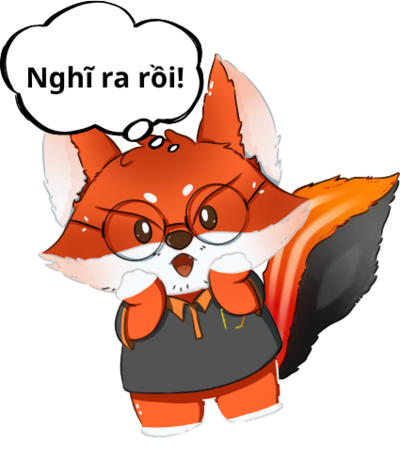
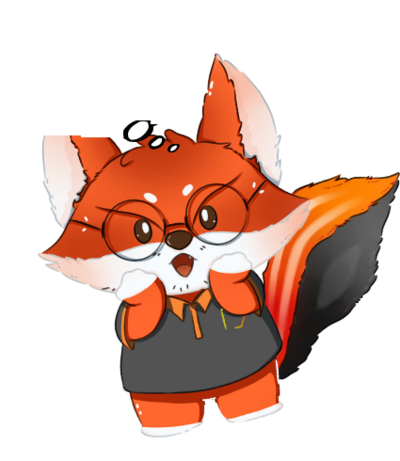
feat(npc): show the lines inside the fox's own thought cloud
fox-idea.png has its drawn cloud removed (the small dots stay); an HTML
cloud in the same style takes its place and holds the text.

diff --git a/css/npc.css b/css/npc.css
@@ -1,5 +1,5 @@
 /* ==========================================================================
-   NPC mascot (js/npc.js): fox in the bottom-right corner with a speech bubble.
+   NPC mascot (js/npc.js): fox in the bottom-right corner with a thought cloud.
    Sits above the desktop icons but below windows (z-index 100+).
    ========================================================================== */
 
@@ -8,11 +8,7 @@
   right: 16px;
   bottom: calc(var(--taskbar-height) + 8px);
   z-index: 50;
-  display: flex;
-  flex-direction: row; /* bubble on the left, so it does not cover the thought cloud in the art */
-  align-items: flex-end;
-  gap: 10px;
-  pointer-events: none; /* only the bubble and the fox take clicks */
+  pointer-events: none; /* only the cloud and the fox take clicks */
 }
 
 /* The mascot replaces the bottom-right watermark while it is shown */
@@ -20,7 +16,12 @@
   display: none;
 }
 
+.npc-figure {
+  position: relative;
+}
+
 .npc-body {
+  display: block;
   width: 170px;
   padding: 0;
   border: none;
@@ -43,54 +44,42 @@
   animation: npcHop 0.45s ease-out, npcBob 3.2s ease-in-out 0.45s infinite;
 }
 
-/* Speech bubble (XP balloon tooltip) */
+/* Thought cloud, drawn like the one in the art (white, thick dark outline).
+   Its bottom-right corner sits where the art's cloud was: in fox-idea.png the
+   cloud was removed and only the small dots above the head remain. It grows
+   up and to the left with the text. */
 .npc-bubble {
-  position: relative;
-  max-width: 260px;
-  padding: 10px 12px 10px;
-  background: #ffffe1;
-  color: #000;
-  border: 1px solid #000;
-  border-radius: 8px;
-  margin-bottom: 70px; /* level with the fox's head */
-  box-shadow: 2px 3px 8px rgba(0, 0, 0, 0.35);
+  position: absolute;
+  right: 68%;
+  bottom: 69%;
+  box-sizing: border-box; /* max-width includes padding and border */
+  width: max-content;
+  min-width: 140px;
+  max-width: 280px;
+  padding: 14px 24px 14px 20px;
+  background: #fff;
+  color: #111;
+  border: 3px solid #1a1a1a;
+  border-radius: 38px;
+  box-shadow: 0 0 0 1px rgba(26, 26, 26, 0.35), 3px 4px 10px rgba(0, 0, 0, 0.3);
   font-family: var(--font-system);
-  font-size: 12px;
+  font-size: 13px;
+  font-weight: 600;
   line-height: 1.45;
   pointer-events: auto;
-  animation: npcPop 0.18s ease-out;
-}
-
-/* Tail of the balloon, pointing right at the fox */
-.npc-bubble::after {
-  content: "";
-  position: absolute;
-  right: -11px;
-  bottom: 18px;
-  border: 10px solid transparent;
-  border-right: 0;
-  border-left-color: #000;
-}
-
-.npc-bubble::before {
-  content: "";
-  position: absolute;
-  right: -9px;
-  bottom: 19px;
-  z-index: 1;
-  border: 9px solid transparent;
-  border-right: 0;
-  border-left-color: #ffffe1;
+  transform-origin: 85% 100%;
+  animation: npcPop 0.2s ease-out;
 }
 
 .npc-text {
-  margin: 0 14px 0 0;
+  margin: 0;
+  cursor: default;
 }
 
 .npc-bubble-close {
   position: absolute;
-  top: 2px;
-  right: 4px;
+  top: 6px;
+  right: 12px;
   width: 20px;
   height: 20px;
   padding: 0;
@@ -98,7 +87,7 @@
   background: none;
   font-size: 16px;
   line-height: 1;
-  color: #555;
+  color: #666;
   cursor: pointer;
 }
 
@@ -121,6 +110,7 @@
   background: linear-gradient(180deg, #fff 0%, #ece9d8 100%);
   font-family: inherit;
   font-size: 11px;
+  font-weight: normal;
   cursor: pointer;
 }
 
@@ -147,6 +137,12 @@
   box-shadow: -2px 2px 6px rgba(0, 0, 0, 0.35);
 }
 
+/* Desktop icon the fox is talking about */
+.desktop-icon.npc-highlight {
+  border-radius: 6px;
+  animation: npcPulse 1s ease-in-out 4;
+}
+
 @keyframes npcBob {
   0%, 100% { transform: translateY(0); }
   50% { transform: translateY(-4px); }
@@ -158,8 +154,13 @@
 }
 
 @keyframes npcPop {
-  from { opacity: 0; transform: translateY(6px) scale(0.96); }
+  from { opacity: 0; transform: scale(0.85); }
   to { opacity: 1; transform: none; }
+}
+
+@keyframes npcPulse {
+  0%, 100% { box-shadow: 0 0 0 0 rgba(255, 140, 40, 0); background-color: transparent; }
+  50% { box-shadow: 0 0 0 3px rgba(255, 140, 40, 0.9), 0 0 16px 4px rgba(255, 140, 40, 0.6); background-color: rgba(255, 140, 40, 0.18); }
 }
 
 @media (prefers-reduced-motion: reduce) {
@@ -168,25 +169,25 @@
   .npc-bubble {
     animation: none;
   }
+
+  .desktop-icon.npc-highlight {
+    animation: none;
+    box-shadow: 0 0 0 3px rgba(255, 140, 40, 0.9);
+  }
 }
 
-/* Phones: smaller fox, bubble fits the screen, readable text and buttons */
+/* Phones: smaller fox; the cloud may use the width left of it */
 @media (max-width: 768px) {
   .npc {
     right: 8px;
   }
 
   .npc-body {
-    width: 120px;
-  }
-
-  .npc {
-    gap: 6px;
+    width: 130px;
   }
 
   .npc-bubble {
-    max-width: calc(100vw - 150px);
-    margin-bottom: 50px;
+    max-width: calc(100vw - 112px); /* fox is 130px wide, cloud ends at ~32% of it */
     font-size: 14px;
   }
 
@@ -203,29 +204,7 @@
   }
 
   .npc-bubble {
-    max-width: 300px;
+    max-width: 320px;
     font-size: 14px;
-  }
-}
-
-/* Desktop icon the fox is talking about */
-.desktop-icon.npc-highlight {
-  border-radius: 6px;
-  animation: npcPulse 1s ease-in-out 4;
-}
-
-@keyframes npcPulse {
-  0%, 100% { box-shadow: 0 0 0 0 rgba(255, 140, 40, 0); background-color: transparent; }
-  50% { box-shadow: 0 0 0 3px rgba(255, 140, 40, 0.9), 0 0 16px 4px rgba(255, 140, 40, 0.6); background-color: rgba(255, 140, 40, 0.18); }
-}
-
-.npc-text {
-  cursor: default;
-}
-
-@media (prefers-reduced-motion: reduce) {
-  .desktop-icon.npc-highlight {
-    animation: none;
-    box-shadow: 0 0 0 3px rgba(255, 140, 40, 0.9);
   }
 }

diff --git a/index.html b/index.html
@@ -149,20 +149,23 @@
     <!-- Desktop Icons Grid -->
     <div id="desktop-icons" class="desktop-icons-area"></div>
 
-    <!-- NPC mascot (js/npc.js). Two poses from the design team: fox-think.png ("…", idle)
-         and fox-idea.png ("Nghĩ ra rồi!", while talking). -->
+    <!-- NPC mascot (js/npc.js). Two poses from the design team: fox-think.png (its own "…"
+         cloud, idle) and fox-idea.png (cloud removed; the HTML cloud below shows the line). -->
     <div id="npc" class="npc hidden">
-      <div class="npc-bubble hidden" role="status" aria-live="polite">
-        <button class="npc-bubble-close" id="npc-bubble-close" type="button" aria-label="Đóng">&times;</button>
-        <p class="npc-text" id="npc-text"></p>
-        <div class="npc-actions">
-          <button class="npc-btn npc-btn-primary hidden" id="npc-cta" type="button" data-i18n="npc.cta">Mở JOIN_MPC.exe</button>
-          <button class="npc-btn" id="npc-hide" type="button" data-i18n="npc.hide">Ẩn mình đi</button>
+      <div class="npc-figure">
+        <!-- Thought cloud: sits where the cloud is in the art, so the lines read as the fox's own -->
+        <div class="npc-bubble hidden" role="status" aria-live="polite">
+          <button class="npc-bubble-close" id="npc-bubble-close" type="button" aria-label="Đóng">&times;</button>
+          <p class="npc-text" id="npc-text"></p>
+          <div class="npc-actions">
+            <button class="npc-btn npc-btn-primary hidden" id="npc-cta" type="button" data-i18n="npc.cta">Mở JOIN_MPC.exe</button>
+            <button class="npc-btn" id="npc-hide" type="button" data-i18n="npc.hide">Ẩn mình đi</button>
+          </div>
         </div>
+        <button class="npc-body" id="npc-body" type="button" aria-label="MPC fox">
+          <img class="npc-fox" id="npc-fox" src="assets/npc/fox-think.png" alt="" draggable="false" />
+        </button>
       </div>
-      <button class="npc-body" id="npc-body" type="button" aria-label="MPC fox">
-        <img class="npc-fox" id="npc-fox" src="assets/npc/fox-think.png" alt="" draggable="false" />
-      </button>
     </div>
     <button class="npc-peek hidden" id="npc-peek" type="button" data-i18n-title="npc.show" title="Gọi linh vật">🦊</button>
 

diff --git a/README.md b/README.md
@@ -62,7 +62,7 @@ Dự án là một **website tĩnh thuần 100%**, không sử dụng `node_modu
    - Xuất hiện ở góc phải dưới sau khi boot, chào theo giờ trong ngày; lần đầu chỉ tới `JOIN_MPC.exe`.
    - Lời thoại hiện từng chữ, icon được nhắc tới sẽ nhấp nháy viền cam; đứng yên ở Desktop 40 giây thì cáo nhắc (tối đa 2 lần, lần cuối chỉ tới JOIN).
    - Bấm vào cáo để xem gợi ý; mở app nào thì cáo có câu phản ứng riêng (lời thoại ở `js/i18n.js`, khóa `npc.*`).
-   - Nút "Ẩn mình đi" thu cáo thành tab nhỏ ở mép phải; hình cáo gồm 2 tư thế `assets/npc/fox-think.png` (đang nghĩ, lúc im lặng) và `assets/npc/fox-idea.png` (lúc nói); thay ảnh chỉ cần ghi đè 2 file này.
+   - Nút "Ẩn mình đi" thu cáo thành tab nhỏ ở mép phải; hình cáo gồm 2 tư thế `assets/npc/fox-think.png` (bong bóng "…", lúc im lặng) và `assets/npc/fox-idea.png` (đã xóa bong bóng; lời thoại hiện trong bong bóng HTML đặt đúng chỗ đó).
 10. **Game & Ứng dụng phụ**:
    - 🧮 **Calculator (`calc.exe`)**: Máy tính Windows XP Luna tính toán thực tế.
    - 💣 **Minesweeper (`winmine.exe`)**: Game dò mìn cổ điển với bộ đếm số 7-segment và nút mặt cười tương tác.
